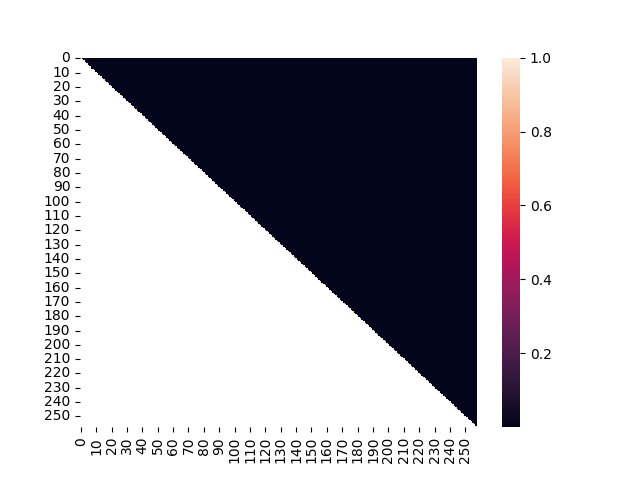
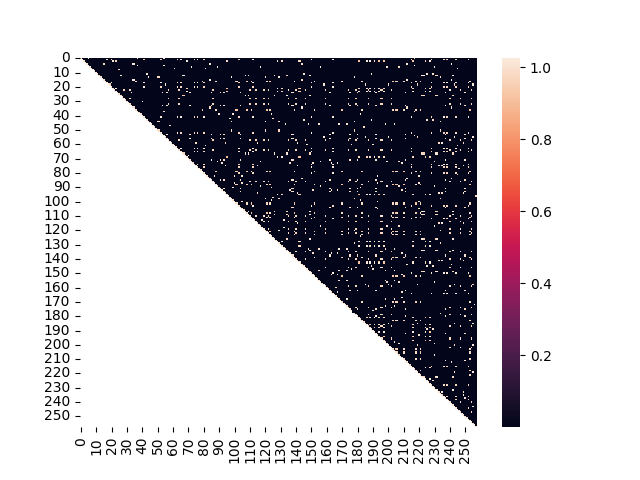
Disable triplet violations as they are broken or ill-formulated

diff --git a/scripts/inference.py b/scripts/inference.py
@@ -97,15 +97,20 @@ def run():
                 cached_features.append((i, j, features))
                 table[i, j] = p
 
-            fixed_table = fix_triplet_violations(table)
-            new_prior   = (np.sum(np.where(fixed_table > 0.5, 1., 0.)) /
-                           np.sum(np.where(np.isnan(fixed_table), 0., 1.)))
-
-            new_table = np.full((m, m), np.nan)
-            np.fill_diagonal(new_table, 1.)
-            for i, j, feature in cached_features:
-                p = infer_from_feature(features, interpolated, xi_ratios, new_prior)
-                new_table[i, j] = p
+            # Disable triplet violation correction, prior estimation, and recalculation
+            # Set tables and priors to unchanged values for consistency
+            new_table = table
+            fixed_table = table
+            new_prior = match_prior
+            # fixed_table = fix_triplet_violations(table)
+            # print(fixed_table)
+            # new_prior   = (np.sum(np.where(fixed_table > 0.5, 1., 0.)) /
+            #                np.sum(np.where(np.isnan(fixed_table), 0., 1.)))
+            # new_table = np.full((m, m), np.nan)
+            # np.fill_diagonal(new_table, 1.)
+            # for i, j, feature in cached_features:
+            #     p = infer_from_feature(features, interpolated, xi_ratios, new_prior)
+            #     new_table[i, j] = p
 
             print(group_id)
             cluster_labels = custom_cluster_alg(new_table)
@@ -117,9 +122,10 @@ def run():
             inferred[ref_key].insert_one(dict(
                 cluster_labels={str(k) : int(cluster_labels[i])
                                 for k, i in id_lookup.items()},
-                probs=binary_probs, prior=new_prior,
+                probs=binary_probs,
                 fixed_probs=fixed_probs_binary,
                 original_probs=original_probs_binary,
+                prior=new_prior,
                 match_prior=match_prior,
                 group_id=group_id))
     except KeyboardInterrupt:

diff --git a/authority/algorithm/triplet_violations.py b/authority/algorithm/triplet_violations.py
@@ -1,4 +1,5 @@
 from rich.pretty import pprint
+from rich.progress import track
 from rich import print
 import scipy
 import numpy as np
@@ -54,13 +55,15 @@ def fix_triplet_violations_step(table):
     # ignore warnings since the where statement handles these
     with np.errstate(divide='ignore', invalid='ignore'):
         updated = np.where(base > 0., working/base, table)
+        updated = np.where(np.isnan(updated), table, updated) # Don't allow nans
     return updated, violations
 
 def fix_triplet_violations(table, max_iterations=30):
     ''' Fix triplet violations using a closed-form solution,
         section 4 of the 2005 or 2009 papers '''
-    for _ in range(max_iterations):
+    for i in range(max_iterations):
         table, violations = fix_triplet_violations_step(table)
+        print(f'Iteration {i} of triplet violations: violations = {violations}')
         if violations == 0:
             break
     return table
